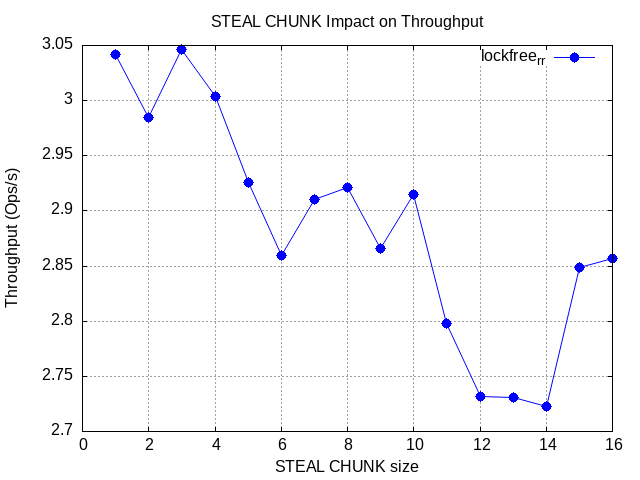
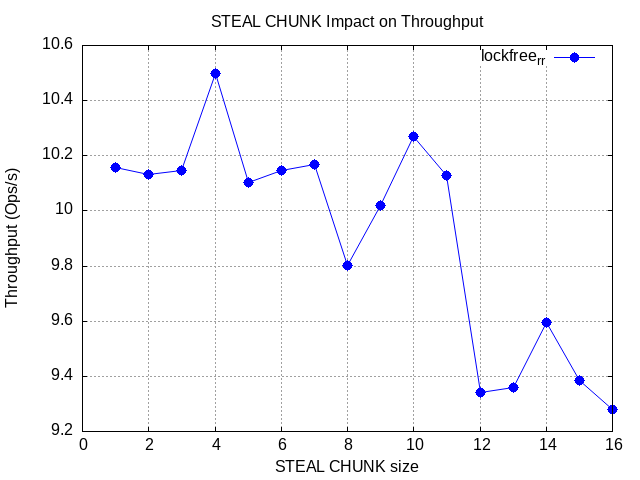
Add lockfree_rr_SIMD

diff --git a/lockfree_rr_SIMD.c b/lockfree_rr_SIMD.c
@@ -8,9 +8,10 @@
 #include <stdlib.h>
 #include <string.h>
 #include <unistd.h>
+#include <immintrin.h>
 
 #ifndef STEAL_CHUNK
-#define STEAL_CHUNK 3
+#define STEAL_CHUNK 4
 #endif
 #define SPIN_LIMIT 1024
 #define TILE_SIZE 64
@@ -94,30 +95,59 @@ static bool steal_batch(ring_buffer_t *q, task_t *buf, size_t *n_stolen)
     return false;
 }
 
-// i/j 是 8×8 內部座標，ti/tj 是 64×64 內部座標，k 主宰整個內積長度 (2048)。
+// 一次計算 8*8 micro-tile，也是就是 64 個 float
 static inline void mm_tile(const task_t *task)
 {
-    printf("task->n_k:%ld\n ",task->n_k);
     for (size_t ti = 0; ti < TILE_SIZE; ti += MICRO_TILE) {
         for (size_t tj = 0; tj < TILE_SIZE; tj += MICRO_TILE) {
-            float sum[MICRO_TILE][MICRO_TILE] = {0};
-            for (size_t k = 0; k < task->n_k; k++) {
-                for (size_t i = 0; i < MICRO_TILE; i++) {
-                    float a = task->A[(ti + i) * task->stride_a + k];
-                    for (size_t j = 0; j < MICRO_TILE; j++){
+
+            __m256 c[MICRO_TILE];
+            for (int v = 0; v < MICRO_TILE; ++v) c[v] = _mm256_setzero_ps();
+
+            for (size_t k = 0; k < task->n_k; ++k) {
+                /* 1. broadcast A[ti~ti+7]][k] */
+                __m256 a0 = _mm256_set1_ps(task->A[(ti + 0) * task->stride_a + k]);
+                __m256 a1 = _mm256_set1_ps(task->A[(ti + 1) * task->stride_a + k]);
+                __m256 a2 = _mm256_set1_ps(task->A[(ti + 2) * task->stride_a + k]);
+                __m256 a3 = _mm256_set1_ps(task->A[(ti + 3) * task->stride_a + k]);
+                __m256 a4 = _mm256_set1_ps(task->A[(ti + 4) * task->stride_a + k]);
+                __m256 a5 = _mm256_set1_ps(task->A[(ti + 5) * task->stride_a + k]);
+                __m256 a6 = _mm256_set1_ps(task->A[(ti + 6) * task->stride_a + k]);
+                __m256 a7 = _mm256_set1_ps(task->A[(ti + 7) * task->stride_a + k]);
+
+                /* 2. 對固定 k，把 B 的 8 個 column 分別取出 */
+                const float *baseB = task->B + k; 
+                const size_t sb = task->stride_b;
                 
-                        sum[i][j] += a * task->B[(tj + j) * task->stride_b + k];
-                    }
-                        
-                }
+                //倒過來擺放的原因是 _mm256_set_ps 的設計是高位在前，低位在後，所以它的結構是 b[7][k]~b[0][k]，不是 b[0][k]~b[7][k]
+                __m256 b = _mm256_set_ps(
+                    baseB[(tj + 7) * sb],
+                    baseB[(tj + 6) * sb],
+                    baseB[(tj + 5) * sb],
+                    baseB[(tj + 4) * sb],
+                    baseB[(tj + 3) * sb],
+                    baseB[(tj + 2) * sb],
+                    baseB[(tj + 1) * sb],
+                    baseB[(tj + 0) * sb]);   
+
+                /* 3. FMA accumulate */
+                c[0] = _mm256_fmadd_ps(a0, b, c[0]);
+                c[1] = _mm256_fmadd_ps(a1, b, c[1]);
+                c[2] = _mm256_fmadd_ps(a2, b, c[2]);
+                c[3] = _mm256_fmadd_ps(a3, b, c[3]);
+                c[4] = _mm256_fmadd_ps(a4, b, c[4]);
+                c[5] = _mm256_fmadd_ps(a5, b, c[5]);
+                c[6] = _mm256_fmadd_ps(a6, b, c[6]);
+                c[7] = _mm256_fmadd_ps(a7, b, c[7]);
             }
-            for (size_t i = 0; i < MICRO_TILE; i++) {
-                for (size_t j = 0; j < MICRO_TILE; j++)
-                    task->C[(ti + i) * task->stride_c + (tj + j)] = sum[i][j];
-            }
+
+            /* 4. store back 8×8 */
+            for (int v = 0; v < 8; ++v)
+                _mm256_storeu_ps(&task->C[(ti + v) * task->stride_c + tj], c[v]);
         }
     }
 }
+
 typedef struct {
     threadpool_t *pool;
     size_t index;
